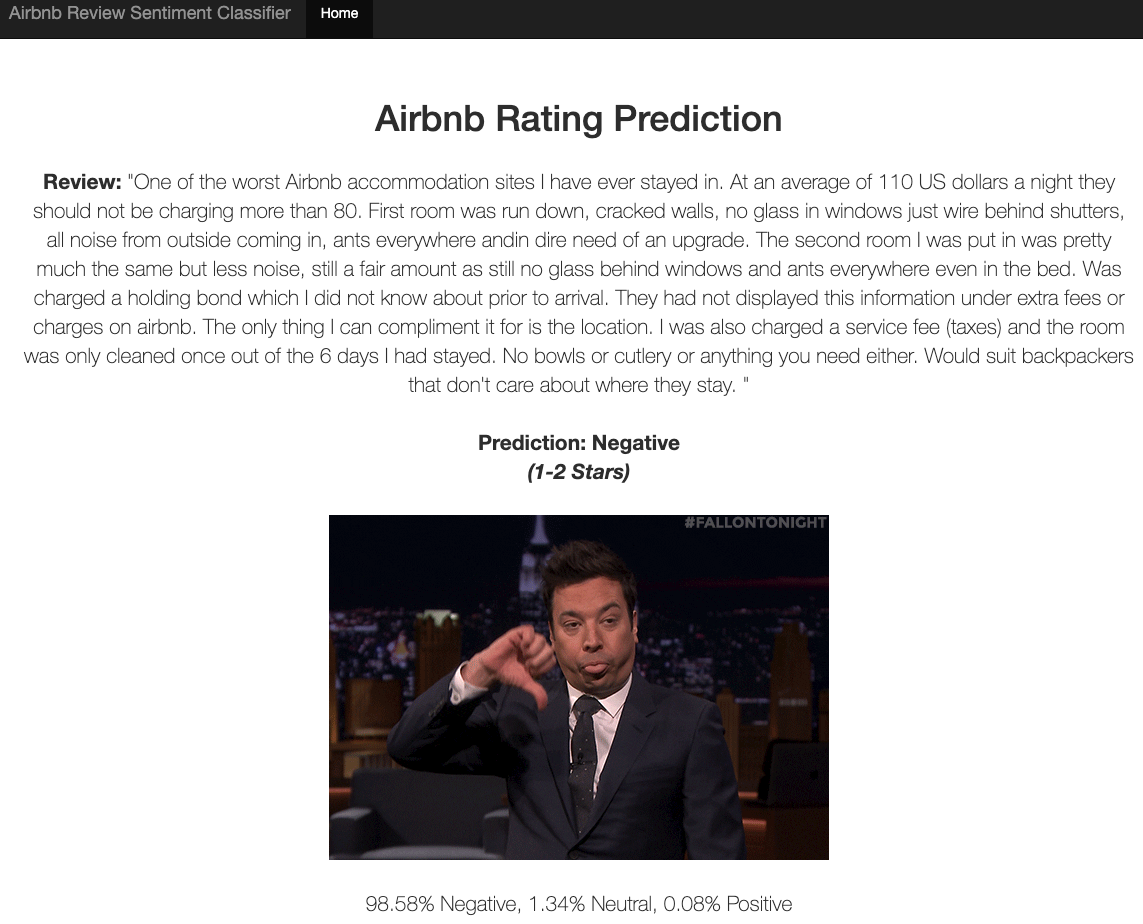
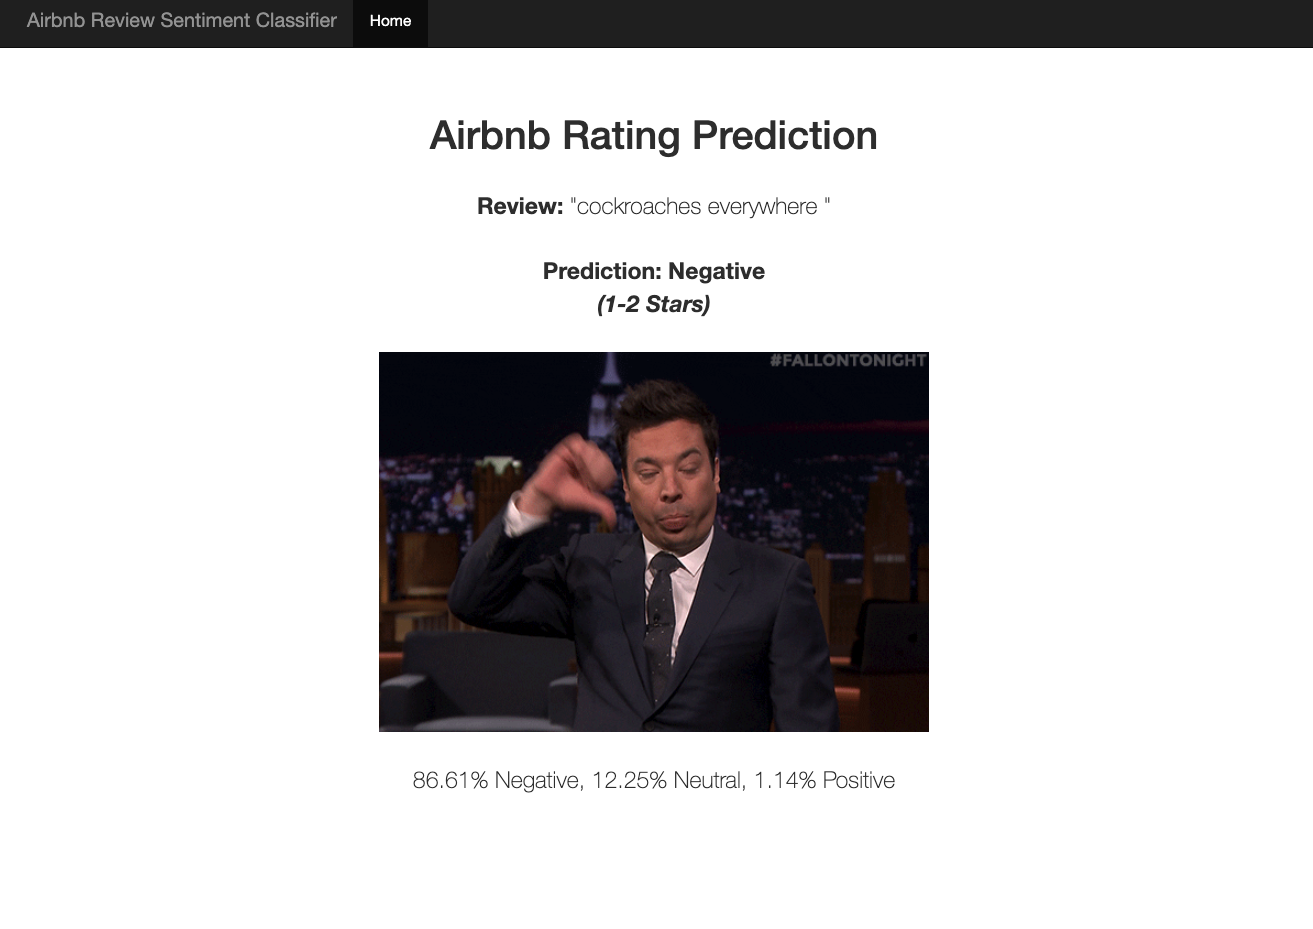
updated with latest model

Changed region(s): [[0.0306, 0.0909, 1.0, 0.9394], [0.0, 0.0, 1.0, 0.0606], [0.3062, 0.9697, 0.7043, 1.0]]

diff --git a/src/flask_app/app.py b/src/flask_app/app.py
@@ -24,7 +24,7 @@ maxlen = 550
 num_words = 5000
 
 # Path to model
-model_path = 'BEST_saved_models/lstm_10epochs_20200608-04:29:46/'
+model_path = 'BEST_saved_models/lstm_6epochs_20200608-07:34:50/'
 
 # Home page
 @app.route('/')
@@ -133,7 +133,7 @@ def process_input(text, maxlen, num_words):
     padding_type = 'post'
     
     # Load tokenizer from pickle
-    with open('src/tokenizer.pickle', 'rb') as handle:
+    with open('src/tokenizer_50pct.pickle', 'rb') as handle:
         tokenizer = pickle.load(handle)
     tokenized_text = tokenizer.texts_to_sequences(tokenized_text)
         

diff --git a/README.md b/README.md
@@ -237,10 +237,20 @@ weighted avg       0.91      0.87      0.88     24347
 ![lstm_10epochs_20200608-04/29/46_accuracy.png](https://github.com/chelseanbr/between-the-lines-hotels/blob/master/imgs/neural_net_history/lstm_10epochs_20200608-04/29/46_accuracy.png)
 
 ```bash
+Reading data/tripadvisor_reviews_1p2m.csv...
+Cleaning data...
+
+Splitting data into train/test/val...
+        Train: 779120, Test: 243475, Val: 194780
+Taking 50pct of data - Train: 389560, Val: 97390, Test: 121737
+
+Removing punctuation, digits, and stop words from X_train/val/test data...
+
+Tokenizing X_train/val/test data...
+
+Starting modeling...
+
 Will save model to: saved_models/lstm_6epochs_20200608-07:34:50
-
-2020-06-08 07:34:50.551559: E tensorflow/stream_executor/cuda/cuda_driver.cc:313] failed call to cuInit: UNKNOWN ERROR (303)
-
 
 Model: "sequential"
 _________________________________________________________________
@@ -270,8 +280,92 @@ Total params: 1,320,739
 Trainable params: 1,320,739
 Non-trainable params: 0
 _________________________________________________________________
+Epoch 1/6
+6087/6087 [==============================] - ETA: 0s - loss: 0.5901 - accuracy
+: 0.8166
+Epoch 00001: val_accuracy improved from -inf to 0.86511, saving model to BEST_
+saved_models/lstm_6epochs_20200608-07:34:50/
+6087/6087 [==============================] - 3186s 523ms/step - loss: 0.5901 -
+ accuracy: 0.8166 - val_loss: 0.3307 - val_accuracy: 0.8651
+Epoch 2/6
+6087/6087 [==============================] - ETA: 0s - loss: 0.5084 - accuracy
+: 0.8421
+Epoch 00002: val_accuracy improved from 0.86511 to 0.87598, saving mo[35/2291]
+ST_saved_models/lstm_6epochs_20200608-07:34:50/
+6087/6087 [==============================] - 3184s 523ms/step - loss: 0.5084 $
+ accuracy: 0.8421 - val_loss: 0.2904 - val_accuracy: 0.8760
+Epoch 3/6
+6087/6087 [==============================] - ETA: 0s - loss: 0.4790 - accurac$
+: 0.8503
+Epoch 00003: val_accuracy did not improve from 0.87598
+6087/6087 [==============================] - 3183s 523ms/step - loss: 0.4790 $
+ accuracy: 0.8503 - val_loss: 0.2989 - val_accuracy: 0.8741
+Epoch 4/6
+6087/6087 [==============================] - ETA: 0s - loss: 0.4599 - accurac$
+: 0.8547
+Epoch 00004: val_accuracy did not improve from 0.87598
+6087/6087 [==============================] - 3181s 523ms/step - loss: 0.4599 $
+ accuracy: 0.8547 - val_loss: 0.3054 - val_accuracy: 0.8668
+Epoch 5/6
+6087/6087 [==============================] - ETA: 0s - loss: 0.4451 - accurac$
+: 0.8563
+Epoch 00005: val_accuracy did not improve from 0.87598
+6087/6087 [==============================] - 3187s 524ms/step - loss: 0.4451 $
+ accuracy: 0.8563 - val_loss: 0.3043 - val_accuracy: 0.8694
+Epoch 6/6
+6087/6087 [==============================] - ETA: 0s - loss: 0.4308 - accurac$
+: 0.8600
+Epoch 00006: val_accuracy improved from 0.87598 to 0.87695, saving model to B$
+ST_saved_models/lstm_6epochs_20200608-07:34:50/
+6087/6087 [==============================] - 3181s 523ms/step - loss: 0.4308 $
+ accuracy: 0.8600 - val_loss: 0.2901 - val_accuracy: 0.8769
 
+Took 19116.94s to train
+12174/12174 [==============================] - 823s 68ms/step - loss: 0.2432 $
+ accuracy: 0.8971
+Training Accuracy:  0.8971455097198486
+3044/3044 [==============================] - 204s 67ms/step - loss: 0.5526 - $
+ccuracy: 0.8769
+Val Accuracy:  0.876948356628418
+3805/3805 [==============================] - 255s 67ms/step - loss: 0.5434 - $ccuracy: 0.8782
+Test Accuracy:  0.8781553506851196
+
+        Predict train
+              precision    recall  f1-score   support
+
+    negative       0.82      0.83      0.83     24673
+     neutral       0.46      0.80      0.58     34034
+    positive       0.99      0.91      0.95    330853
+
+    accuracy                           0.90    389560
+   macro avg       0.76      0.85      0.79    389560
+weighted avg       0.93      0.90      0.91    389560
+
+
+        Predict val
+              precision    recall  f1-score   support
+
+    negative       0.72      0.71      0.72      6168
+     neutral       0.40      0.70      0.51      8508
+    positive       0.98      0.91      0.94     82714
+
+    accuracy                           0.88     97390
+   macro avg       0.70      0.77      0.72     97390
+weighted avg       0.92      0.88      0.89     97390
+
+
+        Predict test
+              precision    recall  f1-score   support
+
+    negative       0.72      0.74      0.73      7710
+     neutral       0.40      0.70      0.51     10636
+    positive       0.98      0.91      0.94    103391
+
+    accuracy                           0.88    121737
+   macro avg       0.70      0.78      0.73    121737
+weighted avg       0.92      0.88      0.89    121737
 ```
+
 ## Web App
 #### Check out my Airbnb Review Sentiment Classifier: https://tinyurl.com/rating-predictor
 
